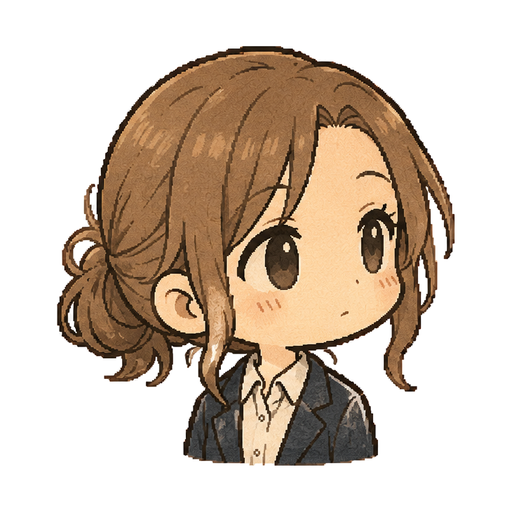
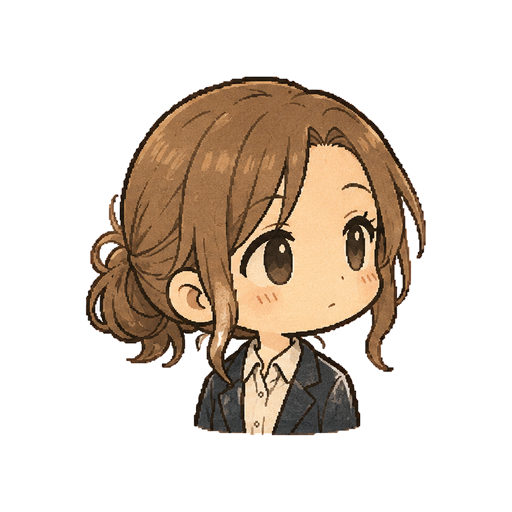
変更

Changed region(s): [[0.0938, 0.0625, 0.9062, 0.9375]]

diff --git a/main.js b/main.js
@@ -743,6 +743,97 @@ const partnerQuizCorrectLines = [
   'いや、それくらい自分でも分かってましたよ'
 ];
 
+// ===== 同僚への誤射・同僚からの誤射に対するコメント =====
+const partnerHitByPlayerLines = [
+  'いたっ！',
+  '何するんですか！',
+  'ちょっと、危ないですよ！',
+  'もう、狙ってやってません…？',
+  '痛いです…気をつけてください！'
+];
+const partnerHitPlayerLines = [
+  'ごめんなさい！',
+  '邪魔しないでください！',
+  '私は悪くないです！',
+  'わっ、すみません！',
+  '当たるところにいるのが悪いんです！'
+];
+
+// ===== 自機がstunしたときの同僚のコメント =====
+const partnerStunWorryLines = [
+  '大丈夫ですか！？',
+  'しっかりしてください…！',
+  'ちょっと、寝てる場合じゃないですよ！',
+  '無理しないでくださいね…',
+  '大丈夫ですか、しんどそうですけど…'
+];
+
+// ===== SAN・寿命の状態を反映した、同僚のランダムな一言 =====
+const partnerStatusCommentIntervalMs = 20000; // これくらいの間隔でコメントするか判定する
+const partnerStatusCommentChance = 0.4; // 判定時にコメントする確率
+let partnerStatusCommentTimerMs = 0;
+
+const partnerStatusSanLowLines = [
+  'かなり疲れた顔してますよ…大丈夫ですか？',
+  'SAN、削れてきてませんか…？',
+  '無理しすぎじゃないですか…心配です',
+  '顔色悪いですよ、休めるときに休んでくださいね',
+  'メンタル、もちますか…？',
+  'ちょっと様子がおかしいですよ…'
+];
+const partnerStatusSanMidLines = [
+  'まあまあ調子は良さそうですね',
+  '悪くない感じですね、この調子で',
+  'ぼちぼち頑張りましょう',
+  'まだ余裕はありそうですね',
+  '普通にやれてると思いますよ'
+];
+const partnerStatusSanHighLines = [
+  '今日は調子良さそうですね！',
+  'メンタル絶好調じゃないですか！',
+  'いい顔してますね、その調子です！',
+  '余裕そうで何よりです',
+  '今なら何でもできそうですね！'
+];
+const partnerStatusLifespanLowLines = [
+  '……最近、根詰めすぎじゃないですか？',
+  '体、大丈夫ですか…本当に心配です',
+  'そろそろ休んだほうがいいと思います…',
+  '無理は禁物ですよ、本当に…',
+  'このままだと倒れちゃいますよ…？',
+  '少しでいいので、休んでください…'
+];
+const partnerStatusLifespanMidLines = [
+  '無理しすぎない程度に頑張りましょう',
+  'ぼちぼち、健康にも気をつけてくださいね',
+  'まだ大丈夫そうですけど、油断は禁物ですよ',
+  '適度に休憩も挟みましょうね'
+];
+const partnerStatusLifespanHighLines = [
+  '元気そうで安心しました！',
+  '体調は良さそうですね！',
+  'その元気、見習いたいです',
+  '絶好調ですね、羨ましいです！'
+];
+
+// SAN・寿命どちらかの状態を反映した一言をランダムに表示する
+function triggerPartnerStatusComment() {
+  if (!partner.active) return;
+  if (Math.random() < 0.5) {
+    const ratio = san / maxSan;
+    const pool = ratio <= 0.3 ? partnerStatusSanLowLines
+      : ratio <= 0.7 ? partnerStatusSanMidLines
+      : partnerStatusSanHighLines;
+    showRandomPartnerSpeechBubble(pool, '#ce93d8');
+  } else {
+    const ratio = lifespan / maxLifespan;
+    const pool = ratio <= 0.3 ? partnerStatusLifespanLowLines
+      : ratio <= 0.7 ? partnerStatusLifespanMidLines
+      : partnerStatusLifespanHighLines;
+    showRandomPartnerSpeechBubble(pool, '#80cbc4');
+  }
+}
+
 const partner = {
   active: false, // 「同僚なし」を選んだ場合や、力尽きた後はfalseのまま
   x: 0, y: 0, angle: 0,
@@ -813,6 +904,7 @@ function damagePlayerByFriendlyFire() {
   friendlyFireHitFlashTimer = friendlyFireHitEffectDuration;
   explosionShakeTimer = Math.max(explosionShakeTimer, friendlyFireHitEffectDuration);
   checkVitalsGameOver('bad-partner-shot');
+  showRandomPartnerSpeechBubble(partnerHitPlayerLines, '#ffab91');
   return true;
 }
 
@@ -822,6 +914,7 @@ function damagePartnerByFriendlyFire() {
     specialSkillEffects.partnerSanDamageMultiplier * specialSkillEffects.friendlyFireDamageMultiplier);
   partner.lifespan = Math.max(0, partner.lifespan - partnerFriendlyFireLifespanDamage * specialSkillEffects.friendlyFireDamageMultiplier);
   partner.friendlyFireInvincibleTimer = friendlyFireInvincibleDuration;
+  showRandomPartnerSpeechBubble(partnerHitByPlayerLines, '#ff8a65');
   partner.relationship = Math.max(0,
     partner.relationship - partnerRelationshipDamagePerHit);
   return true;
@@ -2453,6 +2546,7 @@ function update() {
             fatigue = maxFatigue;
             stunned = true;
             stunTimer = stunDuration * specialSkillEffects.stunDurationMultiplier;
+            if (partner.active) showRandomPartnerSpeechBubble(partnerStunWorryLines, '#90caf9');
             // 疲労が限界に達したら行動不能にし、SANも減らす
             const sanMultiplier = Math.max(0.5, 1 - skillLevel * 0.04);
             damageSan(Math.ceil(
@@ -2484,6 +2578,15 @@ function update() {
     }
   } else {
     partnerNeglectTimerMs = 0;
+  }
+
+  // 時々ランダムで、SAN・寿命の状態を反映した一言を同僚が呟く
+  partnerStatusCommentTimerMs += dt * 1000;
+  if (partnerStatusCommentTimerMs >= partnerStatusCommentIntervalMs) {
+    partnerStatusCommentTimerMs = 0;
+    if (Math.random() < partnerStatusCommentChance) {
+      triggerPartnerStatusComment();
+    }
   }
 
   // 敵をプレイヤーへ向けて移動する。当たり判定の半径は固定
